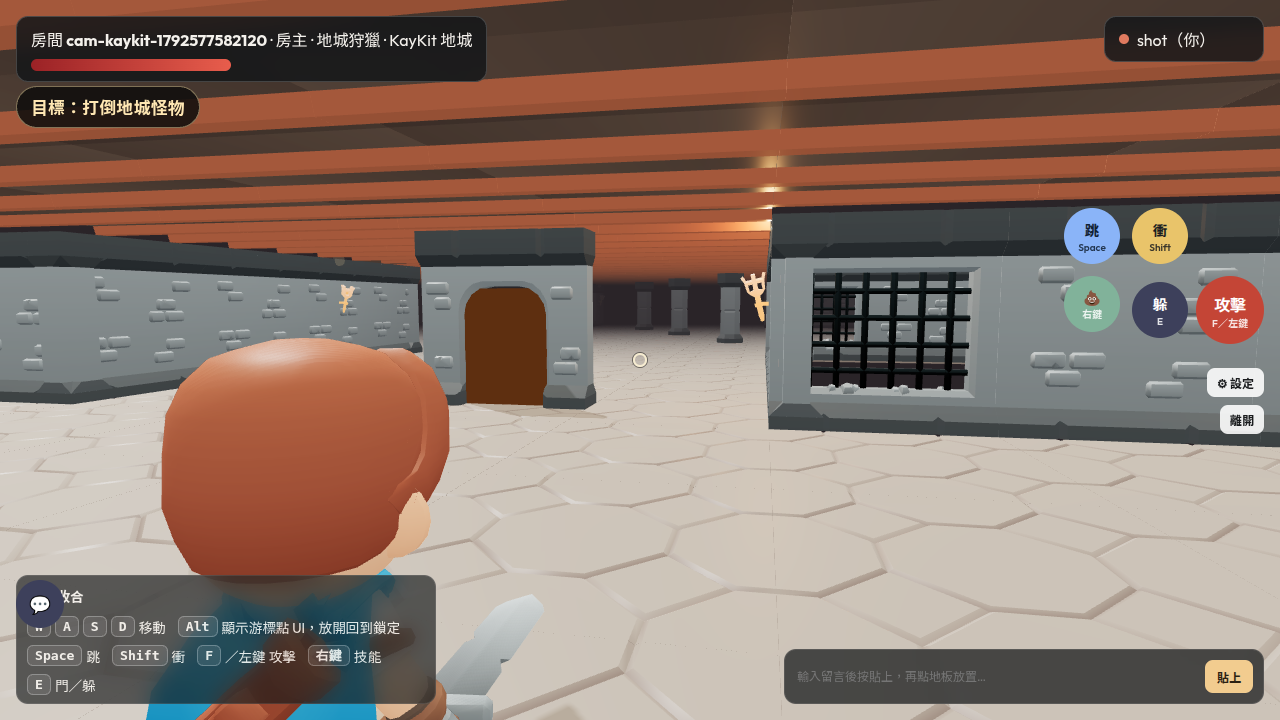
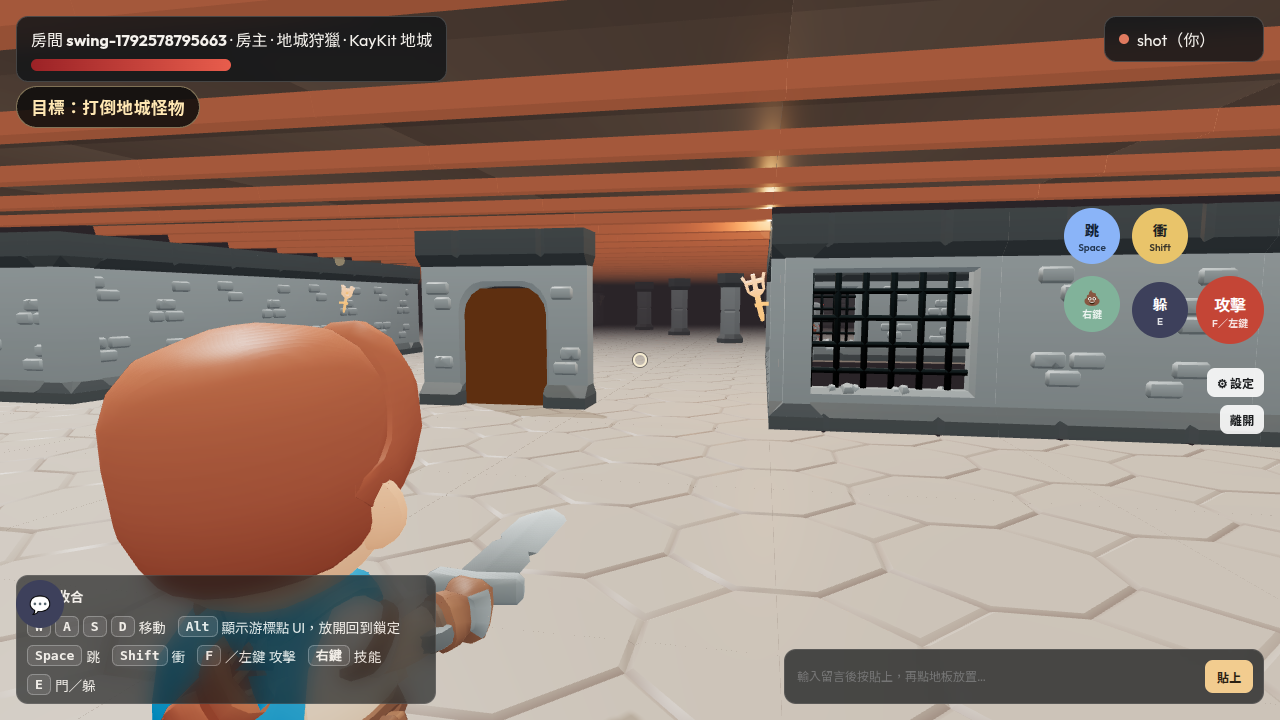
fix: 載入完成就關掉進度卡，並補上揮劍中的截圖
檔案都到了就收起「載入地圖中」和「載入較慢」。同一張圖再進房或開打不會把進度卡打開。
揮劍截圖改成手臂揮出、劍刃朝前的那一幀。

Changed region(s): [[0.0625, 0.4278, 0.4688, 1.0], [0.0625, 0.0, 0.4062, 0.1222]]

diff --git a/scripts/test-map-load-overlay.ts b/scripts/test-map-load-overlay.ts
@@ -1,0 +1,48 @@
+import { nextMapLoadOnEnter, showMapLoadOverlay, showMapLoadSlow } from '../src/load/mapLoadState.ts'
+
+function assert(cond: boolean, msg: string) {
+  if (!cond) throw new Error(msg)
+}
+
+const done = { active: true, failed: false, loaded: 32, total: 32, progress: 100, slow: true }
+assert(!showMapLoadOverlay(done), '32/32 100% 時進度卡必須關掉')
+assert(!showMapLoadSlow(done), '載入完成後「載入較慢」也要消失')
+
+assert(
+  showMapLoadOverlay({ active: true, failed: false, loaded: 31, total: 32, progress: 96, slow: false }),
+  '還沒載完時進度卡要留著',
+)
+assert(
+  showMapLoadOverlay({ active: true, failed: false, loaded: 0, total: 0, progress: 0, slow: false }),
+  '剛開始、總數還沒記上時進度卡要留著',
+)
+assert(
+  !showMapLoadOverlay({ active: true, failed: true, loaded: 32, total: 32, progress: 100, slow: true }),
+  '失敗時改顯示失敗卡，不再顯示進度卡',
+)
+
+const prev = {
+  phase: 'room',
+  scene: 'kaykit',
+  mapLoadActive: false,
+  mapLoadFailed: false,
+  mapLoadLoaded: 32,
+  mapLoadTotal: 32,
+  mapLoadProgress: 100,
+  mapLoadSlow: true,
+  mapLoadErrors: [] as string[],
+}
+const again = nextMapLoadOnEnter(prev, 'kaykit')
+assert(!again.mapLoadActive && !again.mapLoadSlow, '同一張圖載完後再進房（重連、開打）不該把進度卡打開')
+assert(again.mapLoadLoaded === 32 && again.mapLoadProgress === 100, '載完的計數要留著')
+
+const swung = { ...done, active: true }
+assert(!showMapLoadOverlay(swung) && !showMapLoadSlow(swung), '按攻擊把 active 打開時，載完的進度卡仍要關著')
+
+const fresh = nextMapLoadOnEnter({ ...prev, phase: 'lobby' }, 'kenney')
+assert(fresh.mapLoadActive && fresh.mapLoadLoaded === 0 && fresh.mapLoadTotal === 0, '從大廳進新地圖要重新顯示進度')
+
+const switched = nextMapLoadOnEnter(prev, 'jungle')
+assert(switched.mapLoadActive && switched.mapLoadLoaded === 0 && !switched.mapLoadSlow, '換地圖要重開進度，並清掉「載入較慢」')
+
+console.log('map-load-overlay: ok')

diff --git a/src/load/mapLoadState.ts b/src/load/mapLoadState.ts
@@ -1,0 +1,68 @@
+export interface MapLoadView {
+  active: boolean
+  failed: boolean
+  loaded: number
+  total: number
+  progress: number
+  slow?: boolean
+}
+
+/** 檔案都到了就把進度卡關掉。之後就算 active 被打開，也不再蓋住畫面。 */
+export function showMapLoadOverlay(view: MapLoadView) {
+  if (view.failed) return false
+  if (view.total > 0 && view.loaded >= view.total) return false
+  return view.active
+}
+
+export function showMapLoadSlow(view: MapLoadView) {
+  return Boolean(view.slow) && showMapLoadOverlay(view)
+}
+
+export function nextMapLoadOnEnter(
+  prev: {
+    phase: string
+    scene: string
+    mapLoadActive: boolean
+    mapLoadFailed: boolean
+    mapLoadLoaded: number
+    mapLoadTotal: number
+    mapLoadProgress: number
+    mapLoadSlow: boolean
+    mapLoadErrors: string[]
+  },
+  scene: string,
+) {
+  const sameScene = prev.phase === 'room' && prev.scene === scene
+  const done = prev.mapLoadTotal > 0 && prev.mapLoadLoaded >= prev.mapLoadTotal && !prev.mapLoadFailed
+  if (sameScene && done) {
+    return {
+      mapLoadActive: false,
+      mapLoadSlow: false,
+      mapLoadFailed: false,
+      mapLoadErrors: prev.mapLoadErrors,
+      mapLoadLoaded: prev.mapLoadLoaded,
+      mapLoadTotal: prev.mapLoadTotal,
+      mapLoadProgress: 100,
+    }
+  }
+  if (sameScene) {
+    return {
+      mapLoadActive: true,
+      mapLoadSlow: prev.mapLoadSlow,
+      mapLoadFailed: false,
+      mapLoadErrors: prev.mapLoadErrors,
+      mapLoadLoaded: prev.mapLoadLoaded,
+      mapLoadTotal: prev.mapLoadTotal,
+      mapLoadProgress: prev.mapLoadProgress,
+    }
+  }
+  return {
+    mapLoadActive: true,
+    mapLoadSlow: false,
+    mapLoadFailed: false,
+    mapLoadErrors: [] as string[],
+    mapLoadLoaded: 0,
+    mapLoadTotal: 0,
+    mapLoadProgress: 0,
+  }
+}

diff --git a/src/ui/Hud.tsx b/src/ui/Hud.tsx
@@ -3,6 +3,7 @@ import { OTS_MAX_RADIUS, OTS_MIN_RADIUS } from '../../shared/camera'
 import { LOOK_SENS_MAX, LOOK_SENS_MIN, LOOK_SENS_STEP } from '../../shared/input'
 import { disconnectSocket, emitAddNote, emitCheck, emitDoorAuto, emitDoorToggle, emitHide, emitPhrase, emitRemoveNote, emitRescueHold, emitRestart, emitScene, emitStart, emitUpdateNote, performAttack } from '../net/socket'
 import { QUICK_PHRASES } from '../../shared/phrases'
+import { showMapLoadOverlay, showMapLoadSlow } from '../load/mapLoadState'
 import { typingInField } from '../scene/inputLock'
 import { SCENE_IDS, SCENE_LABELS } from '../../shared/scenes'
 import { setMicEnabled } from '../net/voice'
@@ -236,7 +237,14 @@ export function Hud() {
           </button>
         </div>
       ) : (
-        mapLoadActive && (
+        showMapLoadOverlay({
+          active: mapLoadActive,
+          failed: mapLoadFailed,
+          loaded: mapLoadLoaded,
+          total: mapLoadTotal,
+          progress: mapLoadProgress,
+          slow: mapLoadSlow,
+        }) && (
           <div className="map-load">
             <p>
               載入地圖中… {mapLoadTotal ? `${mapLoadLoaded}/${mapLoadTotal}` : ''} {Math.round(mapLoadProgress)}%
@@ -248,7 +256,14 @@ export function Hud() {
                 }}
               />
             </div>
-            {mapLoadSlow && <p className="map-load-slow">載入較慢，還在載…</p>}
+            {showMapLoadSlow({
+              active: mapLoadActive,
+              failed: mapLoadFailed,
+              loaded: mapLoadLoaded,
+              total: mapLoadTotal,
+              progress: mapLoadProgress,
+              slow: mapLoadSlow,
+            }) && <p className="map-load-slow">載入較慢，還在載…</p>}
           </div>
         )
       )}

diff --git a/src/load/mapLoad.ts b/src/load/mapLoad.ts
@@ -4,6 +4,7 @@ import { DECOR_URL } from '../../shared/decor'
 import { dungeonModelUrls } from '../scene/Dungeon'
 import { heroModelUrls } from '../scene/KayKitHero'
 import { DUCK_URL } from '../scene/DuckKing'
+import { showMapLoadOverlay } from './mapLoadState'
 import { useAppStore } from '../store'
 
 const BARREL_URL = '/assets/kaykit/barrel.gltf.glb'
@@ -75,9 +76,11 @@ export function startCriticalPreload(scene: string, clearCache = false) {
   const tick = () => {
     if (gen !== preloadGen) return
     const pct = asMapPercent(0, finished, total)
-    useAppStore.getState().setMapLoadCounts(finished, urls.length)
-    useAppStore.getState().setMapLoadProgress(pct, finished < total)
-    if (finished >= total) useAppStore.getState().setMapLoadProgress(100, false)
+    const storeNow = useAppStore.getState()
+    storeNow.setMapLoadCounts(finished, urls.length)
+    const complete = finished >= total
+    storeNow.setMapLoadProgress(complete ? 100 : pct, !complete)
+    if (complete) storeNow.setMapLoadSlow(false)
   }
 
   for (const url of urls) {
@@ -107,7 +110,16 @@ export function startCriticalPreload(scene: string, clearCache = false) {
 
   const slowId = window.setTimeout(() => {
     if (gen !== preloadGen) return
-    if (useAppStore.getState().mapLoadActive) useAppStore.getState().setMapLoadSlow(true)
+    const current = useAppStore.getState()
+    if (showMapLoadOverlay({
+      active: current.mapLoadActive,
+      failed: current.mapLoadFailed,
+      loaded: current.mapLoadLoaded,
+      total: current.mapLoadTotal,
+      progress: current.mapLoadProgress,
+    })) {
+      current.setMapLoadSlow(true)
+    }
   }, MAP_LOAD_SLOW_MS)
 
   return () => {

diff --git a/src/store.ts b/src/store.ts
@@ -14,6 +14,7 @@ import { LOOK_SENS_DEFAULT, LOOK_SENS_MAX, LOOK_SENS_MIN } from '../shared/input
 import { CAM_DIST_KEY, clampCamDist, readCamDist } from '../shared/camera'
 import { MINIMAP_HEADING_KEY, readMinimapHeadingUp } from '../shared/minimap'
 import { loadSession } from './net/session'
+import { nextMapLoadOnEnter } from './load/mapLoadState'
 
 function readLookSens() {
   if (typeof localStorage === 'undefined') return LOOK_SENS_DEFAULT
@@ -268,7 +269,7 @@ export const useAppStore = create<AppState>((set) => ({
   autoOpenDoors: typeof localStorage === 'undefined' ? true : localStorage.getItem('rb-auto-door') !== '0',
   setLobby: (name, roomId) => set({ displayName: name, roomId }),
   enterRoom: (selfId, snapshot) =>
-    set(() => ({
+    set((s) => ({
       phase: 'room',
       connection: 'online',
       selfId,
@@ -281,10 +282,7 @@ export const useAppStore = create<AppState>((set) => ({
       startInMs: snapshot.startInMs ?? 0,
       started: snapshot.started ?? false,
       joinError: null,
-      mapLoadFailed: false,
-      mapLoadErrors: [],
-      mapLoadSlow: false,
-      mapLoadActive: true,
+      ...nextMapLoadOnEnter(s, snapshot.scene ?? 'kenney'),
       tagHud: snapshot.tagHud ?? null,
       players: snapshot.players,
       localX: snapshot.players[selfId]?.position?.[0] ?? 0,

diff --git a/src/scene/KayKitHero.tsx b/src/scene/KayKitHero.tsx
@@ -395,7 +395,7 @@ export function KayKitHero({
   useFrame((_, dt) => {
     const stepMixer = () => {
       try {
-        mixer.update(dt)
+        mixer.update(Math.min(dt, 1 / 20))
       } catch {
         /* 動作軌壞掉時留下目前姿勢，不要拆掉模型和地圖 */
       }
